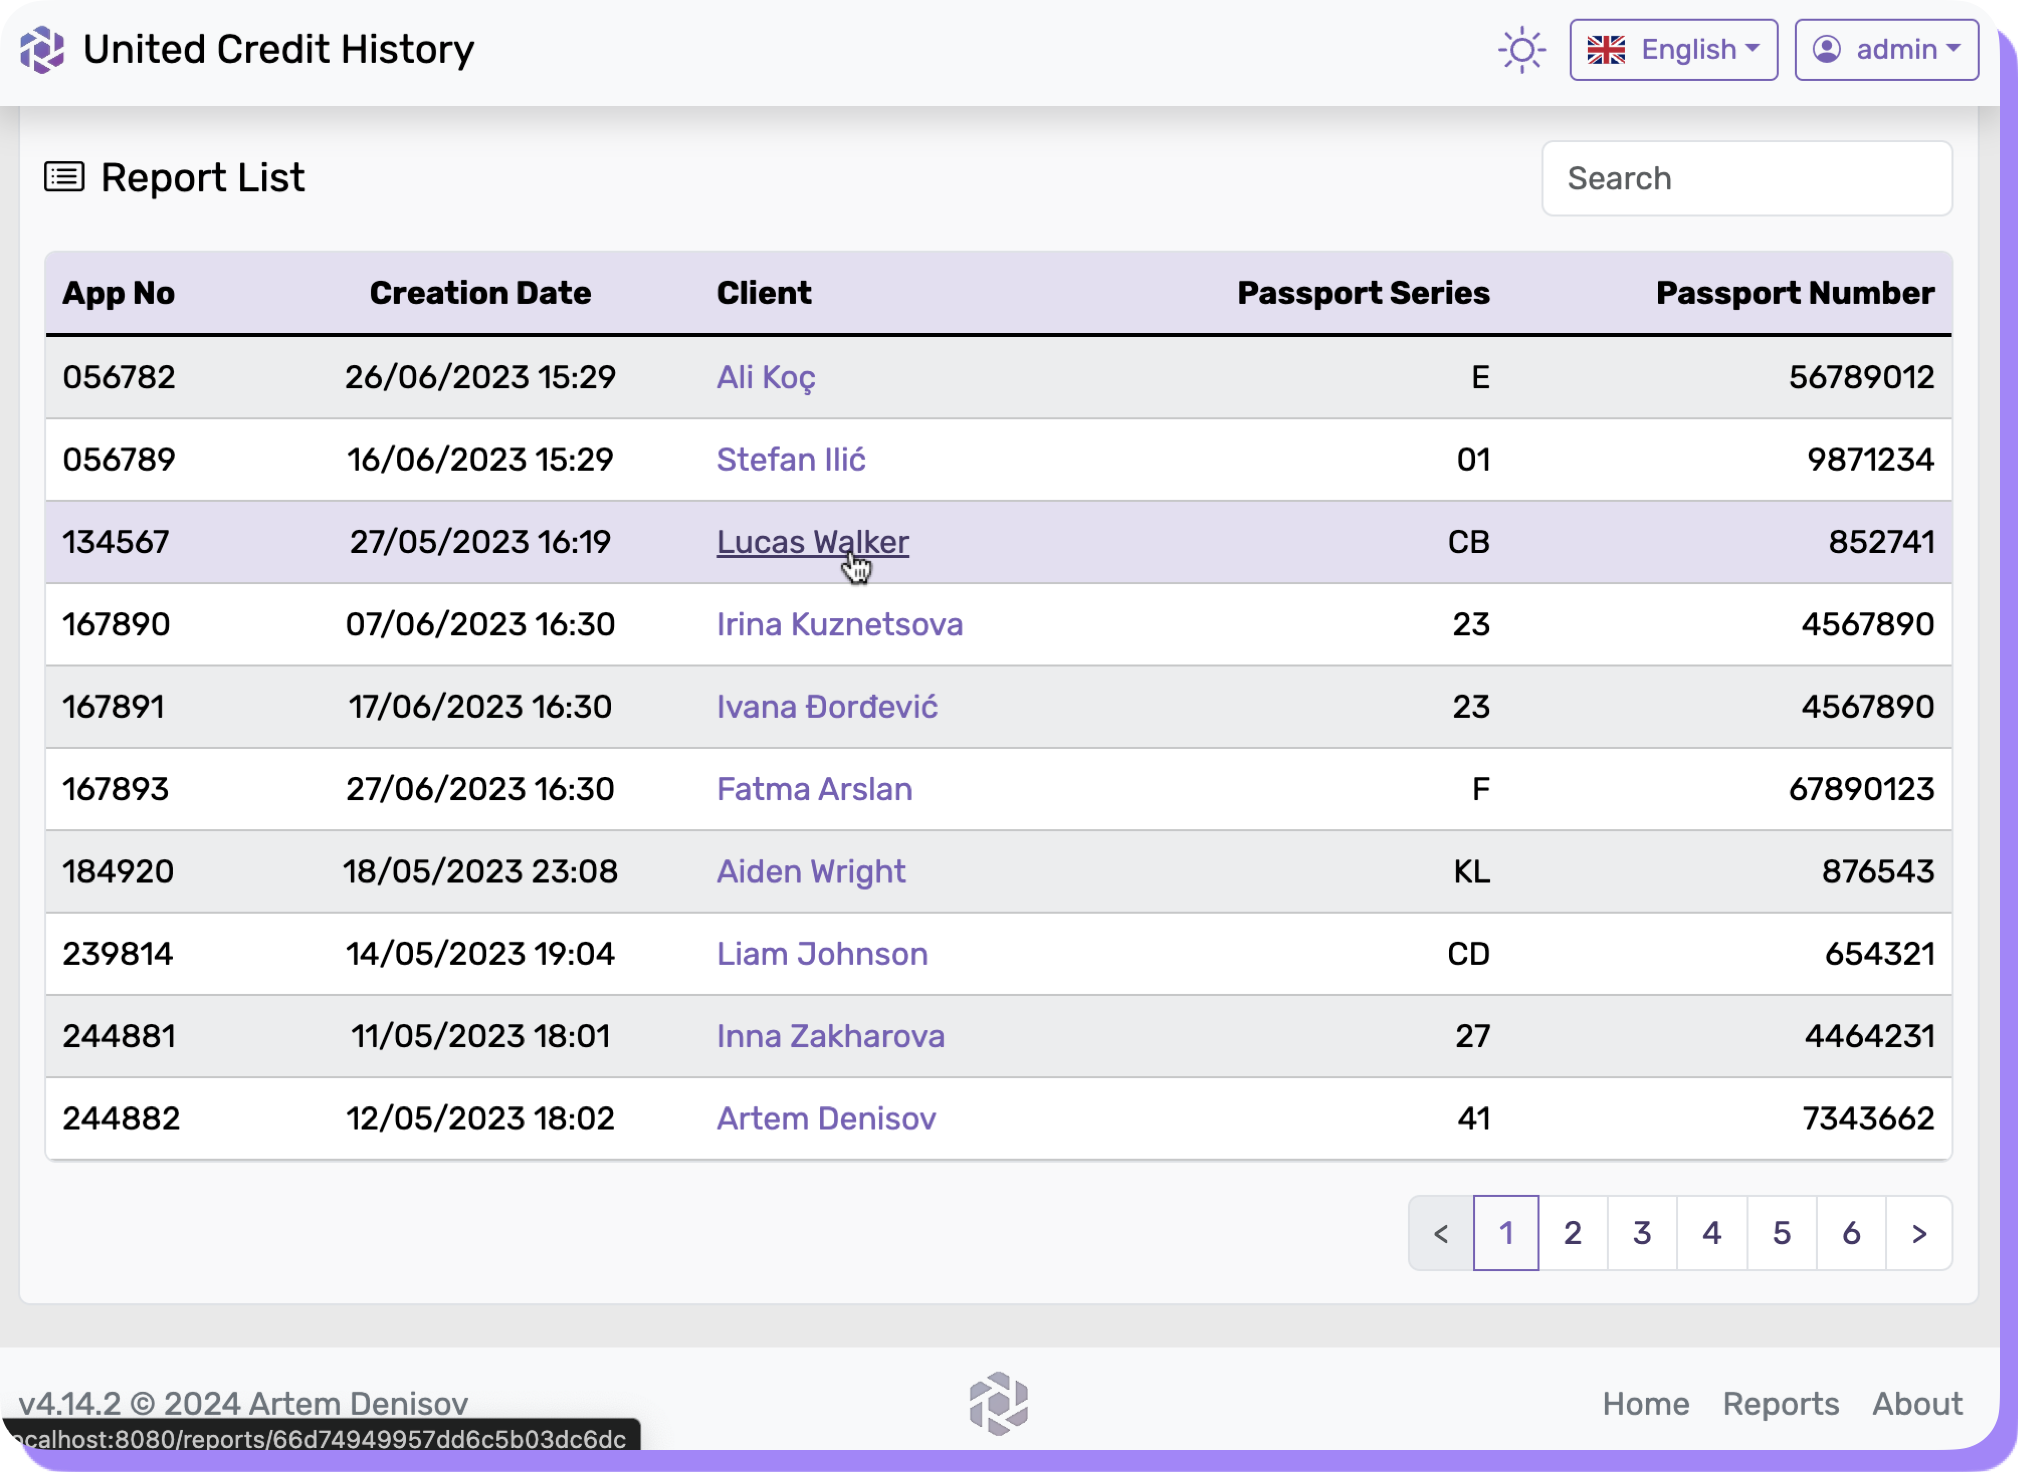
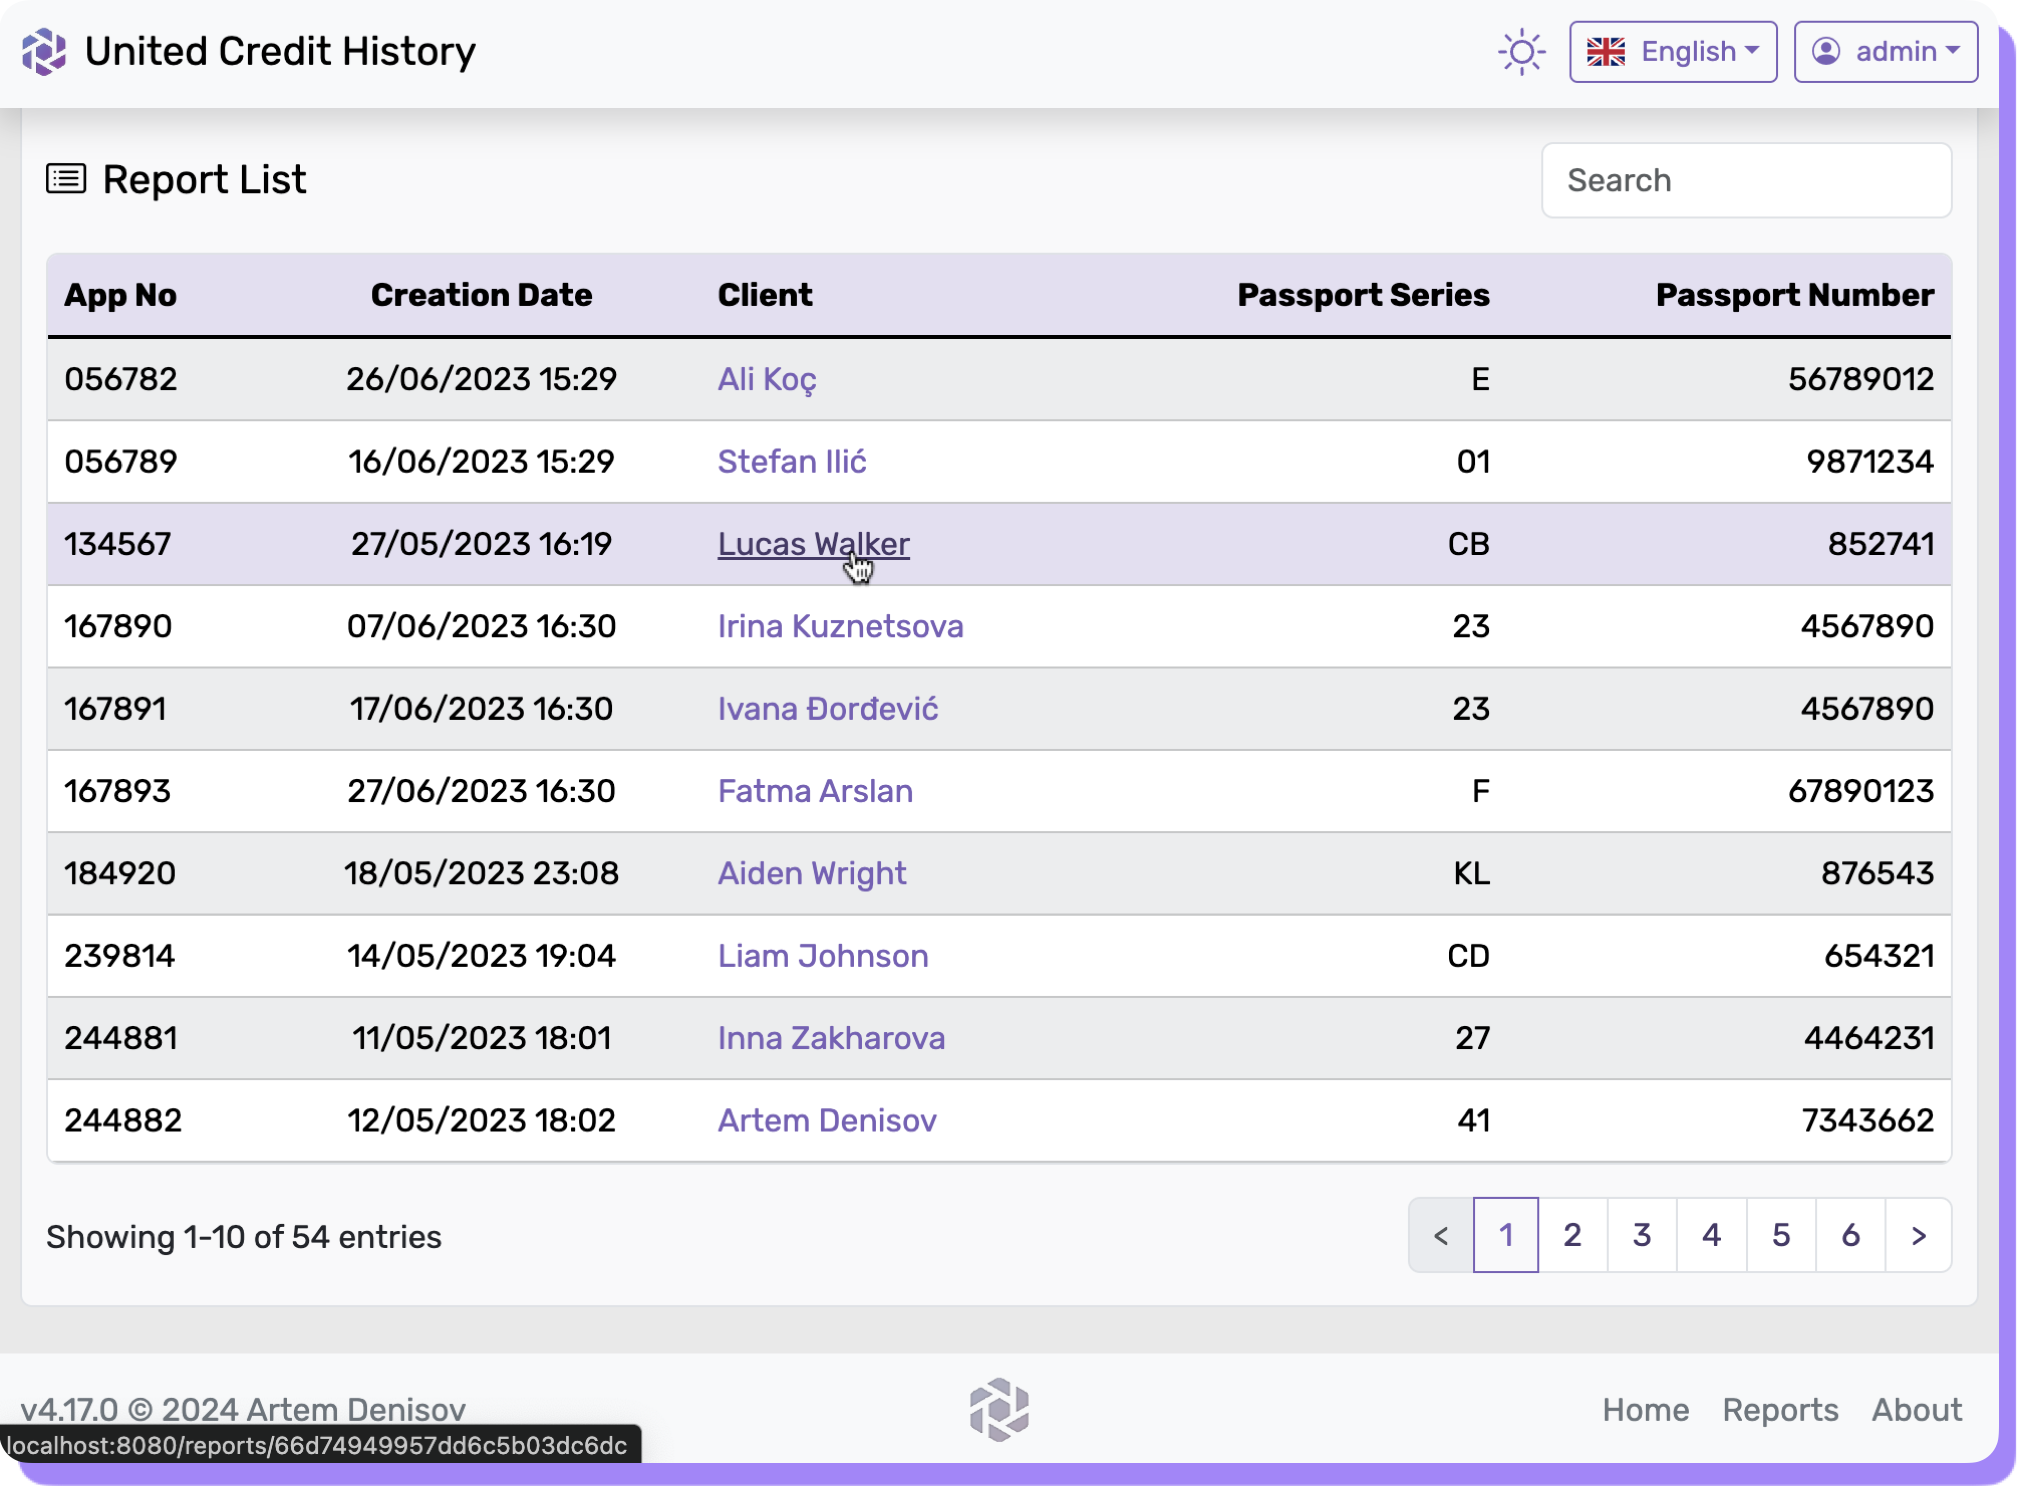
Total Entry Count for Pagination

diff --git a/src/features/pagination/Pagination.tsx b/src/features/pagination/Pagination.tsx
@@ -1,18 +1,20 @@
 import classNames from "classnames";
 import { memo, useEffect } from "react";
+import { useTranslation } from "react-i18next";
 
 import { useAppDispatch, useAppSelector } from "../../app/hooks";
 import { selectTheme } from "../theme/themeSlice";
 import type { PageItemProps, PaginationProps } from "../../types/Pagination";
 import { selectActivePage, setActivePage } from "./paginationSlice";
 
-const Pagination = ({
-    isFetching = false,
-    totalPages = 1,
-}: PaginationProps) => {
+const Pagination = ({ isFetching = false, pagination }: PaginationProps) => {
+    const { t } = useTranslation("table");
+
     const dispatch = useAppDispatch();
     const theme = useAppSelector(selectTheme);
     const activePage = useAppSelector(selectActivePage);
+
+    const { fromEntry, toEntry, total, totalPages } = pagination;
 
     const pages = Array(totalPages)
         .fill(undefined)
@@ -25,8 +27,11 @@ const Pagination = ({
     }, []);
 
     return (
-        <nav aria-label="Pages">
-            <ul className="pagination justify-content-end">
+        <nav aria-label="Pages" className="d-flex justify-content-between">
+            <p className="my-2">
+                {t("showingEntries", { fromEntry, toEntry, total })}
+            </p>
+            <ul className="pagination">
                 <PageItem
                     disabled={isFetching || activePage === 1}
                     page={activePage - 1}
@@ -75,15 +80,19 @@ const Pagination = ({
 function propsAreEqual(
     {
         isFetching: prevIsFetching,
-        totalPages: prevTotalPages,
+        pagination: prevPagination,
     }: Readonly<PaginationProps>,
     {
         isFetching: nextIsFetching,
-        totalPages: nextTotalPages,
+        pagination: nextPagination,
     }: Readonly<PaginationProps>
 ): boolean {
     return (
-        prevIsFetching === nextIsFetching && prevTotalPages === nextTotalPages
+        prevIsFetching === nextIsFetching &&
+        prevPagination.total === nextPagination.total &&
+        prevPagination.totalPages === nextPagination.totalPages &&
+        prevPagination.fromEntry === nextPagination.fromEntry &&
+        prevPagination.toEntry === nextPagination.toEntry
     );
 }
 

diff --git a/src/features/users/UserList.tsx b/src/features/users/UserList.tsx
@@ -25,7 +25,13 @@ const UserList = () => {
     });
 
     const users = data?.results;
-    const totalPages = data?.totalPages;
+
+    const pagination = {
+        fromEntry: data?.fromEntry,
+        toEntry: data?.toEntry,
+        total: data?.total,
+        totalPages: data?.totalPages,
+    };
 
     const columns = userListColumns.map((item) => ({
         ...item,
@@ -58,7 +64,7 @@ const UserList = () => {
                                 isPagination={true}
                                 isRowHover={true}
                                 sorting={{ sysName: "creationDate" }}
-                                totalPages={totalPages}
+                                pagination={pagination}
                             />
                         </div>
                     </div>

diff --git a/src/features/reports/ReportList.tsx b/src/features/reports/ReportList.tsx
@@ -25,7 +25,13 @@ const ReportList = () => {
     });
 
     const reports = data?.results;
-    const totalPages = data?.totalPages;
+
+    const pagination = {
+        fromEntry: data?.fromEntry,
+        toEntry: data?.toEntry,
+        total: data?.total,
+        totalPages: data?.totalPages,
+    };
 
     const columns = reportListColumns.map((item) => ({
         ...item,
@@ -56,7 +62,7 @@ const ReportList = () => {
                                 isFetching={isFetching}
                                 isPagination={true}
                                 isRowHover={true}
-                                totalPages={totalPages}
+                                pagination={pagination}
                             />
                         </div>
                     </div>

diff --git a/src/types/Pagination.ts b/src/types/Pagination.ts
@@ -3,6 +3,13 @@ import type { User } from "./User";
 
 export type HandleSetPage = (page: number) => void;
 
+export interface Pagination {
+    fromEntry: number;
+    toEntry: number;
+    total: number;
+    totalPages: number;
+}
+
 export interface PaginationState {
     activePage: number;
 }
@@ -13,16 +20,14 @@ export interface PaginationQueryArg {
     search: string;
 }
 
-export interface PaginationResult {
+export interface PaginationResult extends Pagination {
     page: number;
     results: ReportRecord[] | User[];
-    total: number;
-    totalPages: number;
 }
 
 export interface PaginationProps {
     isFetching: boolean;
-    totalPages: number;
+    pagination: Partial<Pagination>;
 }
 
 export interface PageItemProps {

diff --git a/src/components/Table/index.tsx b/src/components/Table/index.tsx
@@ -30,8 +30,8 @@ const Table = ({
     isStickyHeader = false,
     isTextDifference = false,
     isTooltips = false,
+    pagination = {},
     sorting = {},
-    totalPages = 1,
 }: TableProps) => {
     const theme = useAppSelector(selectTheme);
 
@@ -97,7 +97,7 @@ const Table = ({
                 <footer>
                     <Pagination
                         isFetching={isFetching}
-                        totalPages={totalPages}
+                        pagination={pagination}
                     />
                 </footer>
             )}

diff --git a/src/types/Table.ts b/src/types/Table.ts
@@ -1,5 +1,6 @@
 import type { MouseEvent, RefObject } from "react";
 
+import type { Pagination } from "./Pagination";
 import type { Loan, Person, ReportRecord } from "./Report";
 import type { User } from "./User";
 
@@ -36,8 +37,8 @@ export interface TableProps {
     isStickyHeader?: boolean;
     isTextDifference?: boolean;
     isTooltips?: boolean;
+    pagination?: Partial<Pagination>;
     sorting?: TableSortConfig;
-    totalPages?: number;
 }
 
 export interface TableHeadProps {
